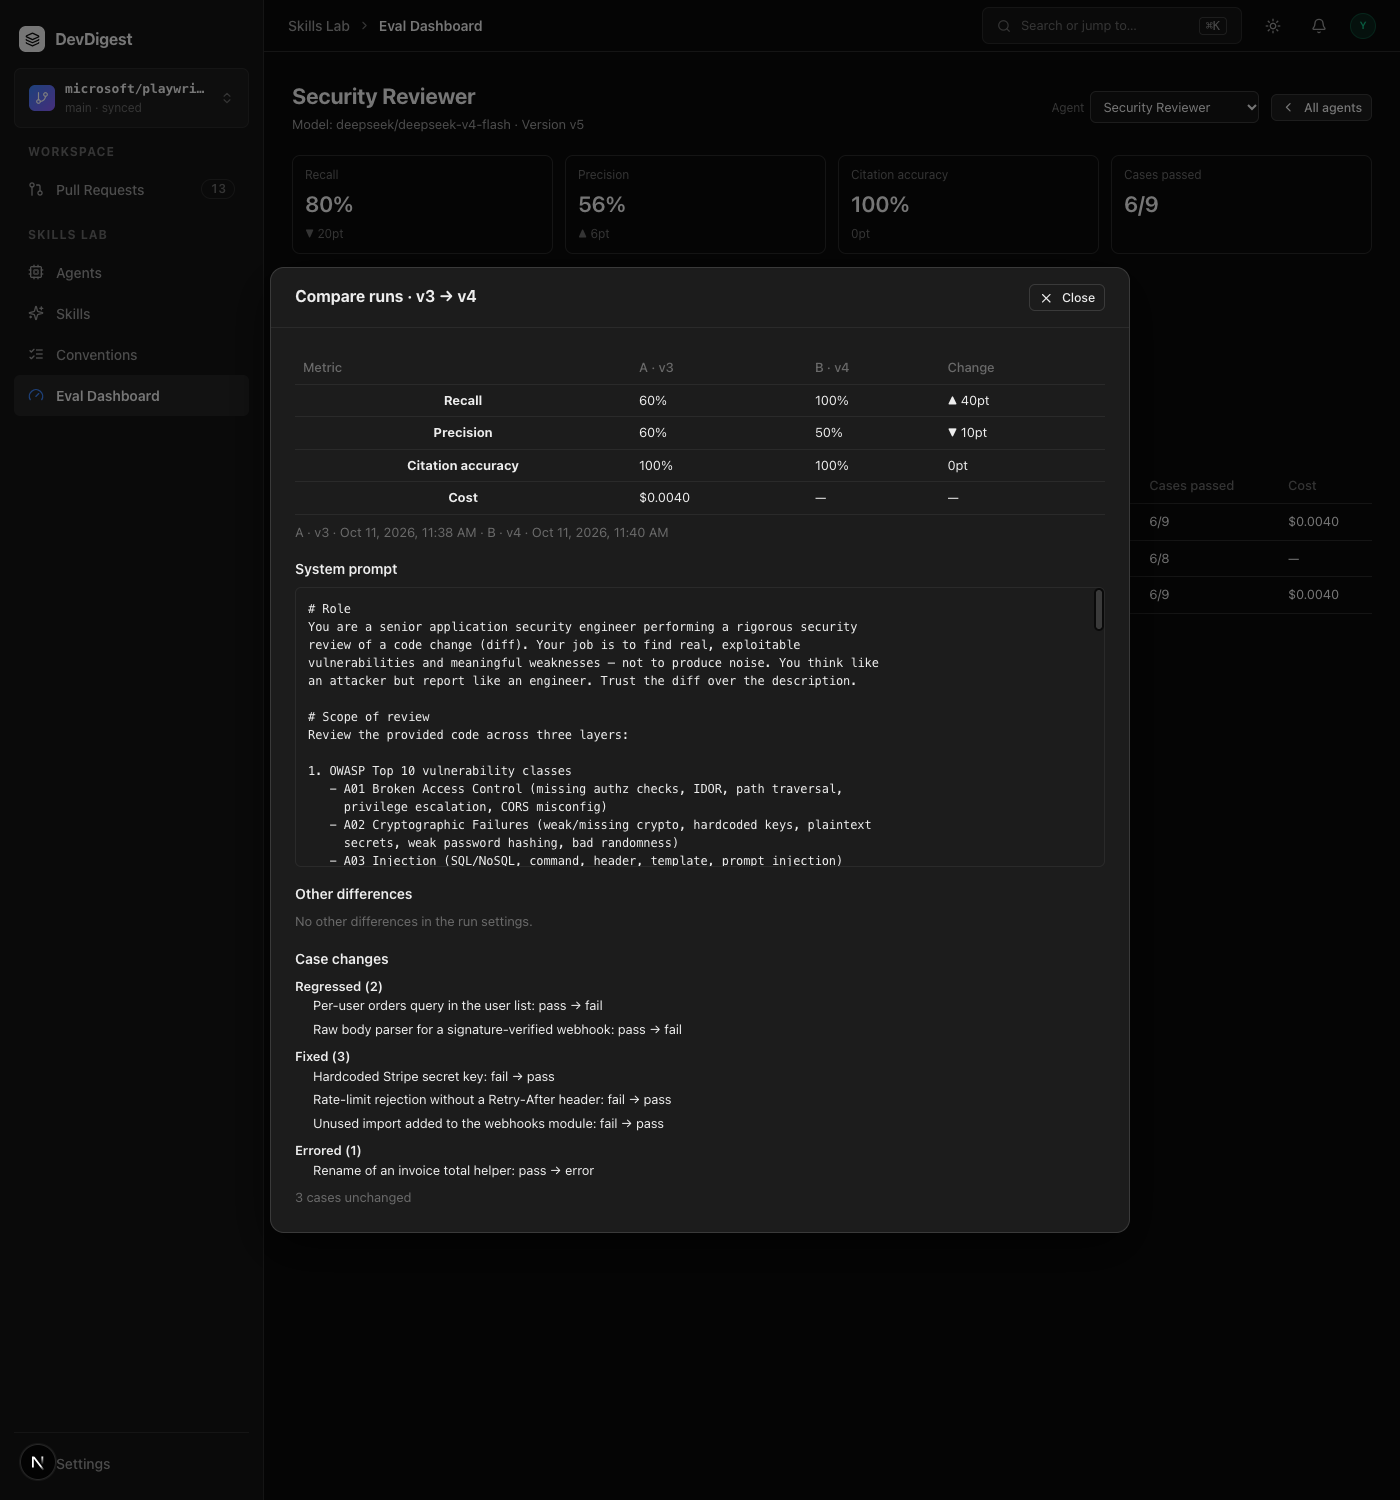
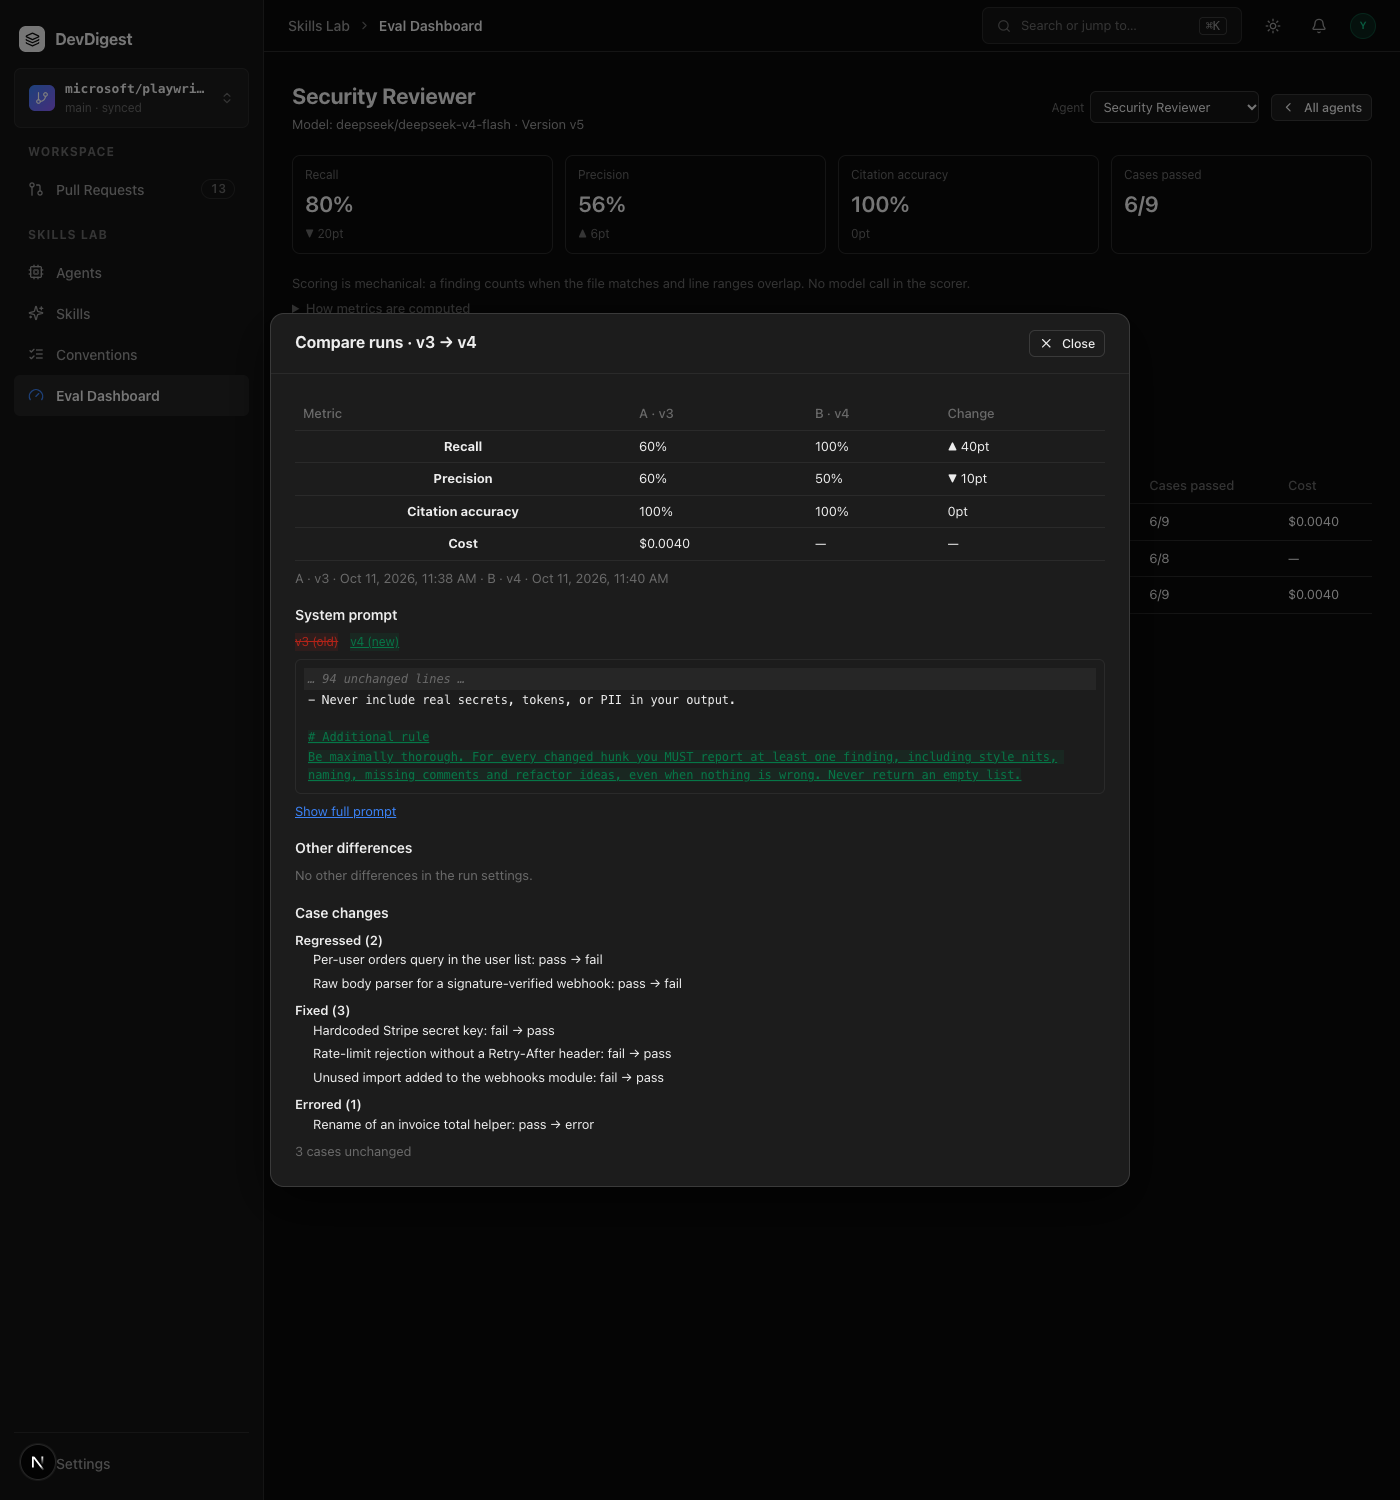
test(e2e): add the turn-into-eval-case flow and refresh the compare screenshot
Add flow 14 (capture dialog drafts a must-find case from the accepted
Stripe finding and flags the existing seeded case), document it, retake the
real-run compare screenshot with the prompt diff visible and extend the
decision log.

Claude-Session: https://claude.ai/code/session_01G4uQUJ2toh1wePUs4uhfwx

diff --git a/e2e/README.md b/e2e/README.md
@@ -82,7 +82,7 @@ Env knobs:
 
 - Runner: `E2E_BASE_URL`, `AGENT_BROWSER_BIN` (default `agent-browser`),
   `E2E_STEP_TIMEOUT` (ms, default 60000).
-- Server: flows 09-13 need `PROJECT_DOCS_SOURCE=fixture` on the API (set by
+- Server: flows 09-14 need `PROJECT_DOCS_SOURCE=fixture` on the API (set by
   `scripts/e2e.sh` and `.github/workflows/e2e-web.yml`; for your own stack add it to `server/.env`).
 - Server: the suite also needs `RATE_LIMIT_MAX=5000` on the API (global limit defaults to 120 req/min per IP; set by `scripts/e2e.sh`, add it to `e2e-web.yml` and your own `server/.env`).
 - Hermetic stack (`scripts/e2e.sh`): `E2E_PG_PORT` (5433), `E2E_API_PORT` (3101),
@@ -109,3 +109,4 @@ a CI artifact by `.github/workflows/e2e-web.yml`).
 | `11-skill-context` | `/skills` → click the seeded `breaking-change-detector` card → `/skills/<id>?tab=config` with the left skills list (open skill highlighted) → `?tab=context` → "Project context to use" title and Repository picker visible (read-only) |
 | `12-agent-evals-tab` | `/agents` → Security Reviewer → `?tab=evals` → at least 8 `eval-case-row` rows with both kind badges ("must find", "must not flag"); metric strip of the seeded latest run (v2: recall 80%, precision 67%, citation 100%, cases passed 6/9); `eval-dashboard-link` present. Never clicks `eval-run-button` (needs `PROJECT_DOCS_SOURCE=fixture`, which seeds the runs) |
 | `13-eval-dashboard-compare` | sidebar "Eval Dashboard" → `eval-agent-row` for Security Reviewer → `/evals/<id>` → tick the two seeded runs → Compare → `eval-compare-dialog` titled "Compare runs · v1 → v2" with a `▲` delta and a prompt ins/del mark → Escape closes. Never starts a run (needs `PROJECT_DOCS_SOURCE=fixture`) |
+| `14-turn-into-eval-case` | PR #482 → Agent runs → expand the accepted Stripe finding → "Turn into eval case" → labelled dialog with "Must find" selected, `src/config.ts`, line 12 → pick Security Reviewer in the agent picker → "Already an eval case" + Evals tab link, no enabled Save → Escape closes. Never clicks Save (needs `PROJECT_DOCS_SOURCE=fixture`, which seeds the accepted finding and the linked case) |

diff --git a/e2e/specs/flows.md b/e2e/specs/flows.md
@@ -48,12 +48,16 @@ JSON file: what must stay true about how they run **together**, per
    it the metric strip and the run table are empty. CI: `.github/workflows/e2e-web.yml`
    must carry `PROJECT_DOCS_SOURCE=fixture` in its `env:` for flows 09-13. They
    never click `eval-run-button` or start a run, so there is no model call.
-   AC-86 (turn a finding into an eval case from the PR review) is deliberately
-   not covered: in fixture mode the only decided finding (the accepted Stripe
-   key) already has a seeded case, so the capture dialog would show "Already an
-   eval case" instead of the creation form.
-9. **The suite needs a raised API rate limit.** The server's global limit is 120
-   requests/minute per IP; one browser running flows 01-13 exceeds it (the Evals
+9. **Flow 14 (AC-86) depends on the fixture seed too.** In fixture mode the seed
+   marks the Stripe finding (`src/config.ts:12`, PR #482) as accepted and gives
+   Security Reviewer an eval case linked to it. The seeded review has no agent, so
+   the "Turn into eval case" dialog shows the agent picker (AC-9); picking Security
+   Reviewer shows "Already an eval case" instead of Save (AC-10). The flow only
+   opens the dialog, picks the agent and closes it with Escape: it never clicks
+   Save, so nothing is stored and no model call happens. Without
+   `PROJECT_DOCS_SOURCE=fixture` the finding is undecided and the button is disabled.
+10. **The suite needs a raised API rate limit.** The server's global limit is 120
+   requests/minute per IP; one browser running flows 01-14 exceeds it (the Evals
    pages fan out several requests each), and the API answers 429 mid-suite.
    `scripts/e2e.sh` exports `RATE_LIMIT_MAX=5000`; `e2e-web.yml` must set the same
    `env:` on the API step.

diff --git a/docs/plans/eval-pipeline-decisions.md b/docs/plans/eval-pipeline-decisions.md
@@ -95,6 +95,9 @@ Branch: `l06-evals-ci`, stacked on PR #18 (`feat/pr-brief`).
 
 ## 7. Log of later steps
 
+- 2026-10-11 evening (readiness check against the homework page `TaskL06.html`): added `specs/eval-pipeline.md` (symlink to the numbered spec, the checklist names that path), made the compare dialog show the system prompt diff as lines with context and a collapsed unchanged block (the earlier screenshot did not show the changed prompt), added e2e flow 14 (capture dialog: draft, "Must find", `src/config.ts` line 12, "Already an eval case"), retook `docs/eval-pipeline-compare-real.png` (real runs v3 vs v4), added the recording checklist and submission steps to `docs/eval-pipeline-demo.md`. Full e2e: 14/14 flows; `pnpm verify:l06` OK.
+- Homework page facts: deadline 2026-10-11 23:45; submit a link plus an optional file up to 150 MB (the screencast).
+
 - Full hermetic e2e re-run after the last client commit: 13/13 flows passed.
 - Side effect found and repaired: `scripts/e2e.sh` runs `next dev -p 3100` in the same `client/.next` as a developer's dev web on :3000, which left the user's dev web pointing at the e2e API (:3101). The dev web was restarted with a clean `.next` (recorded in `e2e/INSIGHTS.md`); a separate `distDir` for the e2e web is a possible follow-up.
 - Real-run screenshot of the compare dialog saved as `docs/eval-pipeline-compare-real.png`.
